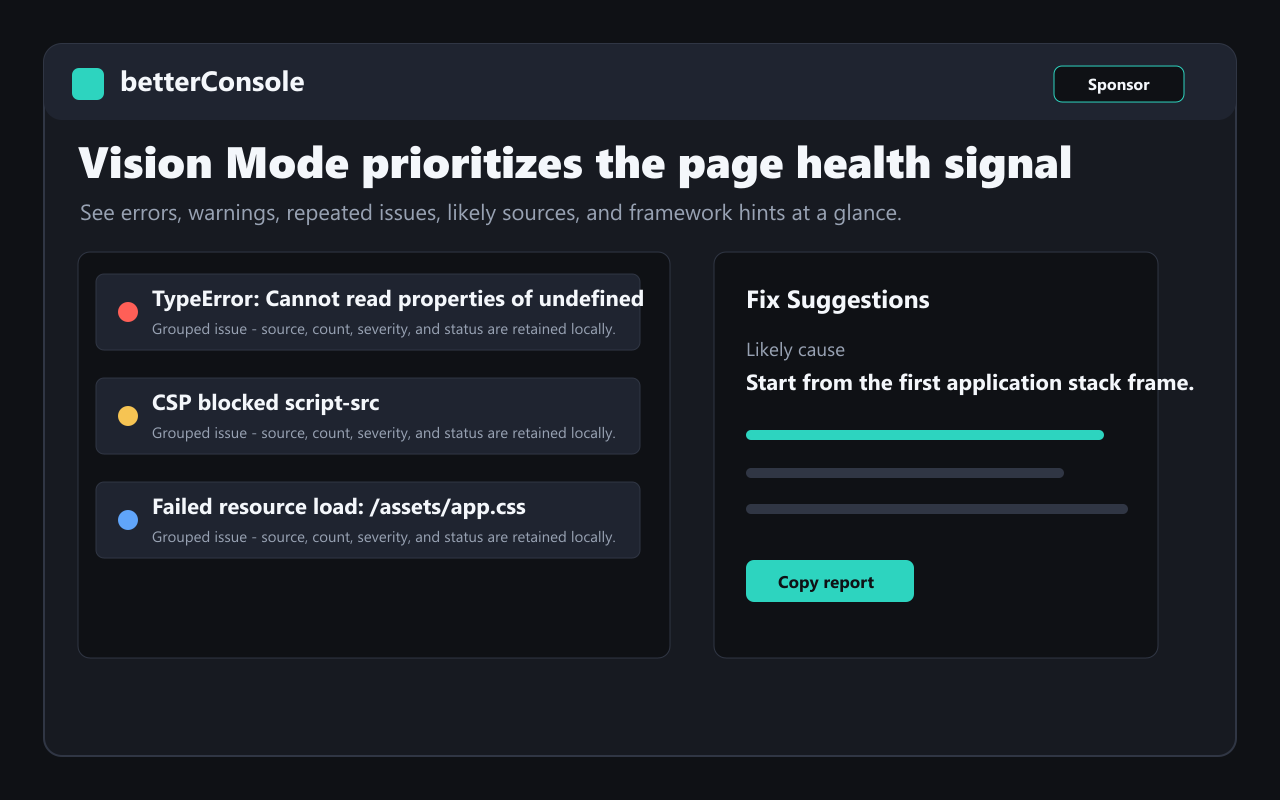
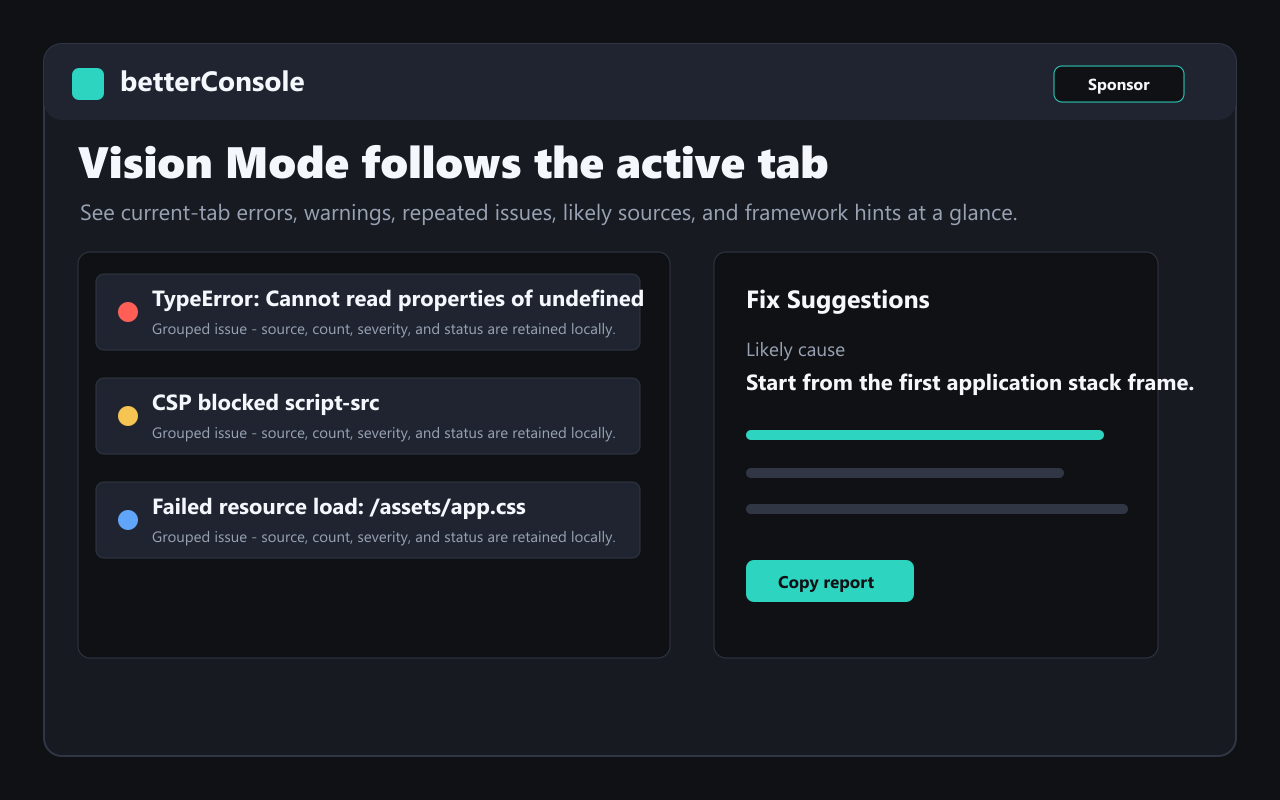
Update betterConsole tab-scoped media

Changed region(s): [[0.0938, 0.1875, 0.8438, 0.2812]]

diff --git a/media/betterconsole/policies/edge-addons-compliance.md b/media/betterconsole/policies/edge-addons-compliance.md
@@ -4,13 +4,13 @@ Use this file to complete the Microsoft Edge Add-ons submission form for betterC
 
 ## Single Purpose Description
 
-betterConsole helps developers debug web pages by capturing browser console activity locally, grouping repeated issues, searching and filtering logs, explaining likely causes, generating sanitized debug reports, and opening user-controlled online searches for fixes.
+betterConsole helps developers debug web pages by capturing browser console activity locally, following the active tab by default, grouping repeated issues, searching and filtering logs, explaining likely causes, generating sanitized debug reports, and opening user-controlled online searches for fixes.
 
 ## Permission Justification
 
 ### storage justification
 
-Required to store captured console entries, grouped issue metadata, user settings, issue notes, ignored patterns, bookmarks, retention preferences, and generated report state locally in the browser. No stored data is transmitted to a remote server by default.
+Required to store captured console entries, grouped issue metadata, user settings, issue notes, ignored patterns, bookmarks, capture state, startup keep/reset preference, retention preferences, and generated report state locally in the browser. No stored data is transmitted to a remote server by default.
 
 ### activeTab justification
 
@@ -18,7 +18,7 @@ Required for user-initiated actions from the popup, including refreshing the pac
 
 ### tabs justification
 
-Required to identify the current active tab, associate captured logs with the correct tab, display current-tab status, open the side panel for the active tab, and clear logs for only the current tab when requested.
+Required to identify the current active tab, refresh capture when the active tab changes, associate captured logs with the correct tab, display current-tab status, open the side panel for the active tab, and clear logs for only the current tab when requested.
 
 ### sidePanel justification
 
@@ -34,7 +34,7 @@ Required only when the user exports logs or downloads a generated debug report. 
 
 ### scripting justification
 
-Required for the user-triggered "Capture" action that re-injects the packaged content script into the active tab if capture needs to be refreshed. The extension injects only scripts bundled inside the extension package.
+Required for the user-triggered "Refresh tab" action and active-tab refresh that re-inject the packaged content script into the active tab if capture needs to be refreshed. The extension injects only scripts bundled inside the extension package.
 
 ### unlimitedStorage justification
 
@@ -62,7 +62,7 @@ All JavaScript used by betterConsole is included in the extension package. The e
 
 ### What user data do you plan to collect from users now or in the future?
 
-betterConsole does not collect or transmit user data to ddkits or third-party servers. It stores debugging data locally in the user's browser, including console messages, errors, stack traces, source URLs, page URLs, timestamps, tab IDs, settings, issue notes, and exported report content. Users can clear, copy, export, download, or search with this data at their discretion.
+betterConsole does not collect or transmit user data to ddkits or third-party servers. It stores debugging data locally in the user's browser, including console messages, errors, stack traces, source URLs, page URLs, timestamps, tab IDs, settings, capture state, issue notes, and exported report content. Users can pause capture, keep or reset logs on startup, clear, copy, export, download, or search with this data at their discretion.
 
 ## Privacy Policy URL
 

diff --git a/media/betterconsole/policies/chrome-web-store-listing.md b/media/betterconsole/policies/chrome-web-store-listing.md
@@ -20,7 +20,7 @@ betterConsole improves browser console debugging by capturing console activity l
 
 betterConsole is a privacy-first debugging extension for Chrome, Edge, Brave, and Chromium-based browsers. It captures console logs, warnings, errors, runtime exceptions, unhandled promise rejections, failed resource loads, and CSP violations without breaking native console behavior.
 
-The extension groups repeated errors, highlights likely source files, detects framework hints, provides practical fix suggestions, and gives developers a Vision Mode overview of the current page's console health. Developers can mark issues fixed, ignore noisy issues, add notes, copy clean error text, export issues, and generate sanitized Markdown debug reports for GitHub Issues, Jira, Linear, Slack, Discord, email, and pull request comments.
+The extension groups repeated errors, highlights likely source files, detects framework hints, provides practical fix suggestions, and gives developers a Vision Mode overview of the current page's console health. It follows the active tab by default, refreshes capture on tab switches and page loads, and offers an explicit all-tabs mode when developers need a wider debugging view. Developers can pause or resume capture, refresh the active tab, clear current-tab logs, reset all logs, mark issues fixed, ignore noisy issues, add notes, copy clean error text, export issues, and generate sanitized Markdown debug reports for GitHub Issues, Jira, Linear, Slack, Discord, email, and pull request comments.
 
 betterConsole stores data locally in browser storage. It does not send logs to a server, does not collect analytics, and does not execute remote code. Online fix search is user-controlled: the extension generates a sanitized query, shows it for review, and opens a normal browser search tab only after the user chooses to search.
 
@@ -47,13 +47,13 @@ Generated by `npm run package`:
 
 ## Permission Justifications
 
-- `storage`: Local logs, settings, notes, bookmarks, ignored patterns, and retention state.
+- `storage`: Local logs, settings, notes, bookmarks, ignored patterns, capture state, startup keep/reset preference, and retention state.
 - `activeTab`: User-triggered capture refresh for the active tab.
-- `tabs`: Active tab metadata, tab-scoped counts, side panel opening, and current-tab clearing.
+- `tabs`: Active tab metadata, tab switch refresh, tab-scoped counts, side panel opening, and current-tab clearing.
 - `sidePanel`: Side panel debugging workflow.
 - `alarms`: Local retention cleanup.
 - `downloads`: User-requested issue/report exports.
-- `scripting`: User-triggered reinjection of packaged capture script.
+- `scripting`: User-triggered and active-tab reinjection of the packaged capture script.
 - `unlimitedStorage`: Larger local debugging sessions without server transmission.
 - `<all_urls>`: Required for content-script capture on pages developers choose to debug.
 